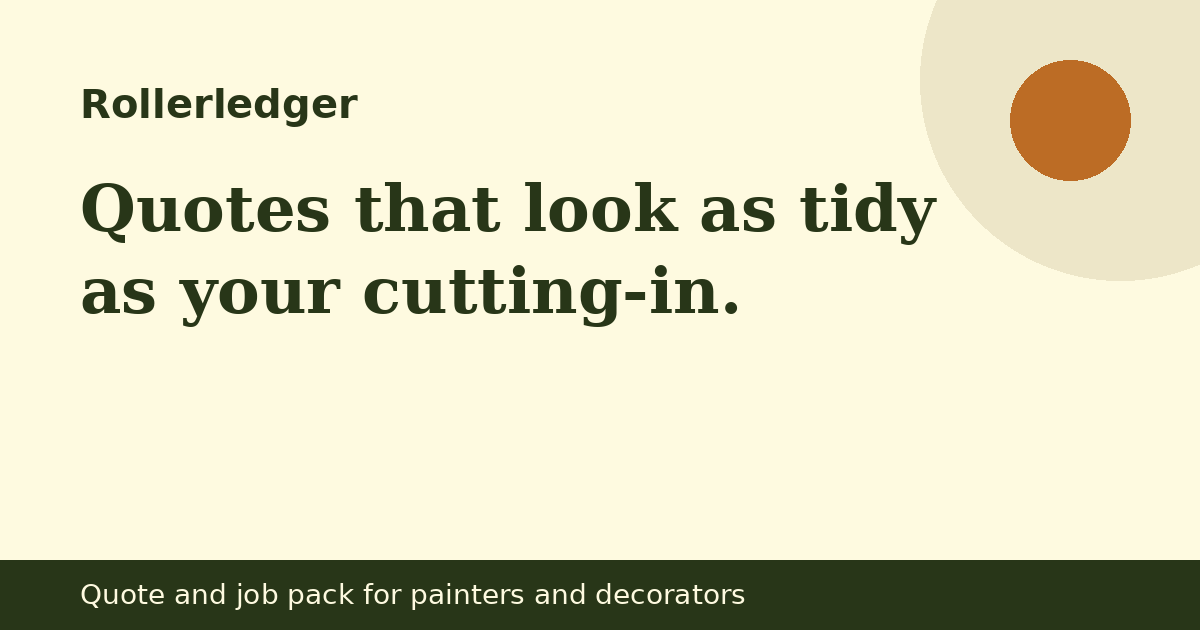
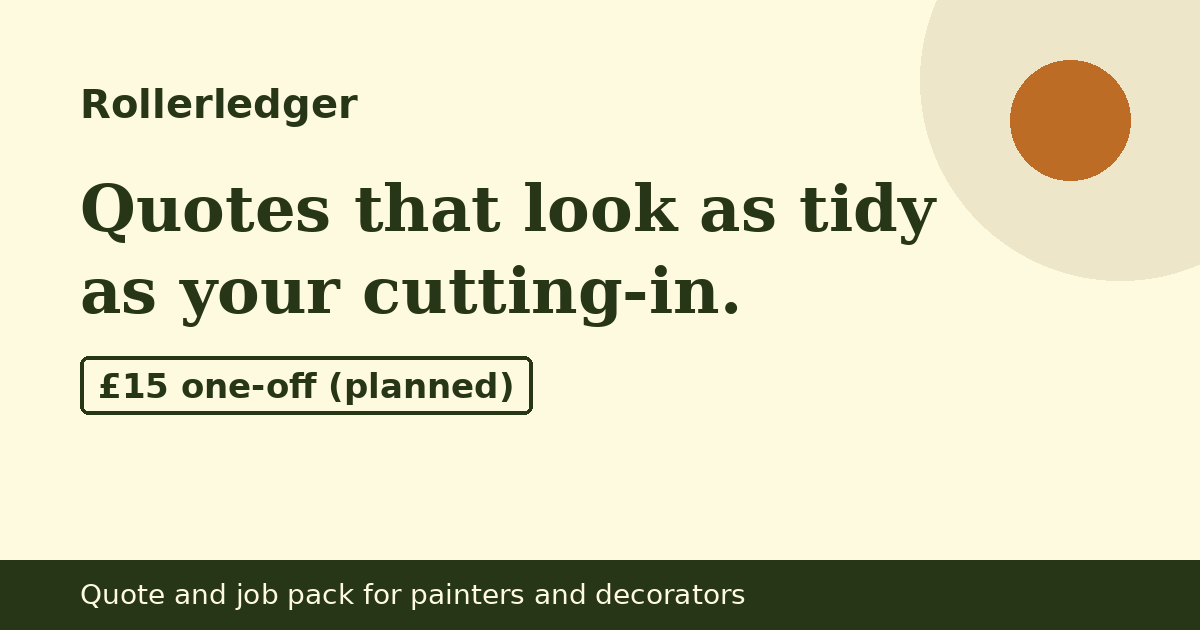
Publish site 2026-10-21 08:29 BST

Changed region(s): [[0.0617, 0.5429, 0.4625, 0.6635]]

diff --git a/index.html b/index.html
@@ -3,7 +3,7 @@
 <head>
 <meta charset="utf-8">
 <meta name="viewport" content="width=device-width, initial-scale=1">
-<meta http-equiv="Content-Security-Policy" content="default-src 'self'; img-src 'self' data: https://localreplyloop.goatcounter.com; style-src 'self'; script-src 'self'; font-src 'self'; connect-src 'self' https://formsubmit.co; form-action 'self'; base-uri 'self'; object-src 'none'">
+<meta http-equiv="Content-Security-Policy" content="default-src 'self'; img-src 'self' data: https://localreplyloop.goatcounter.com; style-src 'self'; script-src 'self'; font-src 'self'; connect-src 'self'; form-action 'self'; base-uri 'self'; object-src 'none'">
 <meta name="referrer" content="strict-origin-when-cross-origin">
 <title>Rollerledger: Quotes that look as tidy as your cutting-in</title>
 <meta name="description" content="A quote template, room measurement sheet, materials list and job sign-off form for decorators.">
@@ -21,21 +21,14 @@
 </head>
 <body>
 <a class="skip" href="#main">Skip to content</a>
-<header><div class="wrap top"><a class="brand" href="./"><svg viewBox="0 0 64 64" aria-hidden="true" width="34" height="34"><rect width="64" height="64" rx="16" fill="#283618"/><text x="32" y="43" text-anchor="middle" font-family="Georgia, serif" font-weight="700" font-size="30" fill="#FEFAE0">R</text><circle cx="50" cy="50" r="6" fill="#BC6C25"/></svg>Rollerledger</a><nav aria-label="Primary"><a href="#how">How it works</a><a href="#faq">Questions</a><a href="#contact">Contact</a></nav></div></header><section class="hero"><div class="wrap"><div><span class="draft">Draft: not yet available. Enquiries welcome.</span><br><span class="eyebrow">Digital product · draft · Quote and job pack for painters and decorators</span><h1>Quotes that look as tidy as your cutting-in.</h1><p class="lede">Rollerledger gives decorators a quote template, a room-by-room measuring sheet that works out wall and ceiling areas, a materials list and a sign-off form for the end of the job.</p><div class="ctas"><a class="btn" href="#contact" data-cta="hero">Tell me when it&#x27;s ready</a><a class="btn ghost" href="#faq" data-cta="hero-secondary">Questions</a></div></div><div class="art"><svg viewBox="0 0 400 400" role="img" aria-label="Decorative pattern" class="motif" preserveAspectRatio="xMidYMid slice"><rect x="0" y="40" width="30" height="200" rx="15" fill="#EDE6C8"/><rect x="46" y="40" width="30" height="200" rx="15" fill="#283618"/><rect x="92" y="40" width="30" height="260" rx="15" fill="#BC6C25"/><rect x="138" y="40" width="30" height="280" rx="15" fill="#283618"/><rect x="184" y="40" width="30" height="300" rx="15" fill="#EDE6C8"/><rect x="230" y="100" width="30" height="240" rx="15" fill="#283618"/><rect x="276" y="70" width="30" height="280" rx="15" fill="#BC6C25"/><rect x="322" y="40" width="30" height="240" rx="15" fill="#283618"/><rect x="368" y="40" width="30" height="220" rx="15" fill="#EDE6C8"/></svg></div></div></section>
+<header><div class="wrap top"><a class="brand" href="./"><svg viewBox="0 0 64 64" aria-hidden="true" width="34" height="34"><rect width="64" height="64" rx="16" fill="#283618"/><text x="32" y="43" text-anchor="middle" font-family="Georgia, serif" font-weight="700" font-size="30" fill="#FEFAE0">R</text><circle cx="50" cy="50" r="6" fill="#BC6C25"/></svg>Rollerledger</a><nav aria-label="Primary"><a href="#how">How it works</a><a href="#faq">Questions</a><a href="#contact">Contact</a></nav></div></header>
 <main id="main">
+<section class="hero"><div class="wrap"><div><span class="draft">Draft: not yet available. Enquiries welcome.</span><br><span class="eyebrow">Digital product · draft · Quote and job pack for painters and decorators</span><h1>Quotes that look as tidy as your cutting-in.</h1><p class="lede">Rollerledger gives decorators a quote template, a room-by-room measuring sheet that works out wall and ceiling areas, a materials list and a sign-off form for the end of the job.</p><div class="ctas"><a class="btn" href="#contact" data-cta="hero">Tell me when it&#x27;s ready</a><a class="btn ghost" href="#faq" data-cta="hero-secondary">Questions</a></div></div><figure class="art"><svg viewBox="0 0 400 400" aria-hidden="true" focusable="false" class="motif"><rect x="40" y="60" width="190" height="290" rx="14" fill="#283618"/><rect x="48" y="68" width="174" height="274" rx="8" fill="#FEFAE0"/><rect x="64" y="100" width="140" height="8" rx="4" fill="#EDE6C8"/><rect x="64" y="132" width="110" height="8" rx="4" fill="#EDE6C8"/><rect x="64" y="164" width="80" height="8" rx="4" fill="#EDE6C8"/><rect x="64" y="196" width="140" height="8" rx="4" fill="#EDE6C8"/><rect x="64" y="228" width="110" height="8" rx="4" fill="#EDE6C8"/><rect x="64" y="260" width="80" height="8" rx="4" fill="#EDE6C8"/><rect x="64" y="292" width="140" height="8" rx="4" fill="#EDE6C8"/><rect x="250" y="70" width="130" height="60" rx="30" fill="#BC6C25"/><rect x="240" y="86" width="20" height="28" rx="6" fill="#283618"/><path d="M250 100 h-14 v80 h70 v40" fill="none" stroke="#283618" stroke-width="10" stroke-linecap="round" stroke-linejoin="round"/><rect x="296" y="220" width="20" height="140" rx="8" fill="#283618"/></svg><figcaption class="fine">Illustrative</figcaption></figure></div></section>
 <section class="tint" id="how"><div class="wrap"><span class="eyebrow">How it works</span><h2>A quote template, room measurement sheet, materials list and job sign-off form for decorators.</h2><div class="steps"><div class="step"><h3>Measure the room</h3><p>Enter dimensions; wall and ceiling areas are worked out.</p></div><div class="step"><h3>Build the quote</h3><p>Labour, materials and prep listed clearly.</p></div><div class="step"><h3>Sign off</h3><p>Customer signs the finished job before final payment.</p></div></div></div></section>
 <section><div class="wrap"><span class="eyebrow">Who it is for</span><h2>For sole-trader painters and decorators.</h2><div class="points"><div class="point"><h3>Areas calculated</h3><p>Walls, ceilings and woodwork from room sizes.</p></div><div class="point"><h3>Clear scope</h3><p>Prep, coats and exclusions written down.</p></div><div class="point"><h3>Sign-off form</h3><p>Fewer arguments about what was agreed.</p></div></div></div></section>
-<section class="tint" id="price"><div class="wrap"><span class="eyebrow">Planned price</span><div class="pricebox"><p class="price">£15 one-off (planned)</p><p>This product is a draft and is not on sale yet. Nothing can be bought on this website. Register interest and we&#x27;ll email you when it&#x27;s ready.</p></div></div></section>
+<section class="tint" id="price"><div class="wrap"><span class="eyebrow">Planned price</span><div class="pricebox"><p class="price">£15 one-off (planned)</p><p>This product is a draft and is not on sale yet. Nothing can be bought on this website. You can register interest; we can’t promise a reply or a date yet.</p></div></div></section>
 <section id="faq"><div class="wrap"><span class="eyebrow">Questions</span><h2>Common questions</h2><details><summary>Is it on sale now?</summary><p>Not yet. Rollerledger is a draft product. Ask to hear when it&#x27;s ready.</p></details><details><summary>Which software does it need?</summary><p>Google Sheets, Excel or Numbers.</p></details><details><summary>Can I add my logo?</summary><p>Yes, there&#x27;s a space for it.</p></details><p class="fine" style="margin-top:18px">Rollerledger is a template pack. It is not legal or tax advice.</p></div></section>
-<section class="tint" id="contact"><div class="wrap contact-grid"><div><span class="eyebrow">Contact</span><h2>Register interest</h2><p>Rollerledger is new and run by one person. Every message is read and answered by email, usually within two working days.</p><p>Email: <a href="mailto:localreply+rollerledger@agentmail.to">localreply+rollerledger@agentmail.to</a></p></div><form class="form" data-contact data-formsubmit="localreply+rollerledger@agentmail.to" data-email="localreply+rollerledger@agentmail.to" data-subject="Rollerledger enquiry" novalidate>
-<div><label for="f-name">Your name</label><input id="f-name" name="name" autocomplete="name" required></div>
-<div><label for="f-email">Email</label><input id="f-email" name="email" type="email" autocomplete="email" required></div>
-<div><label for="f-plan">About</label><select id="f-plan" name="plan"><option value="Tell me when it&#x27;s ready">Tell me when it&#x27;s ready</option><option value="I have a question">I have a question</option></select></div>
-<div><label for="f-message">Message</label><textarea id="f-message" name="message"></textarea></div>
-<p class="hint">Your message goes to our inbox through FormSubmit (formsubmit.co), our form-delivery provider. If that fails, your own email app opens instead. See our <a href="privacy.html">privacy notice</a>.</p>
-<button class="btn" type="submit">Tell me when it&#x27;s ready</button>
-<p class="form-status" role="status" aria-live="polite"></p>
-</form></div></section>
+<section class="tint" id="contact"><div class="wrap contact-grid"><div><span class="eyebrow">Contact</span><h2>Register interest</h2><p>Rollerledger is new and run by one person. Messages go to our inbox. We can’t promise a reply or a timeframe yet.</p><p>Email: <a href="mailto:localreply+rollerledger@agentmail.to">localreply+rollerledger@agentmail.to</a></p></div><div class="form contact-mail"><p><a class="btn" href="mailto:localreply+rollerledger@agentmail.to?subject=%5BRollerledger%5D%20Enquiry" data-cta="enquire">Email Rollerledger</a></p><p class="hint">This opens your own email app. Nothing is sent through this website. See our <a href="privacy.html">privacy notice</a>.</p></div></div></section>
 </main><footer><div class="wrap"><p>Operated by a UK sole trader trading as Rollerledger. Contact: localreply+rollerledger@agentmail.to. Postal address available on written request.</p>
 <p><a href="privacy.html">Privacy</a><a href="terms.html">Terms</a><a href="./#contact">Contact</a></p>
 <p class="fine">Rollerledger is a template pack. It is not legal or tax advice.</p></div></footer>

diff --git a/assets/site.css b/assets/site.css
@@ -1,7 +1,7 @@
 @font-face{font-family:'IBM Plex Mono';font-weight:500;font-style:normal;font-display:swap;src:url(fonts/ibm-plex-mono-latin-500-normal.woff2) format('woff2')}
 @font-face{font-family:'IBM Plex Sans';font-weight:400;font-style:normal;font-display:swap;src:url(fonts/ibm-plex-sans-latin-400-normal.woff2) format('woff2')}
 @font-face{font-family:'IBM Plex Sans';font-weight:600;font-style:normal;font-display:swap;src:url(fonts/ibm-plex-sans-latin-600-normal.woff2) format('woff2')}
-:root{--ink:#283618;--paper:#FEFAE0;--acc:#BC6C25;--acc-text:#A05C1F;--on-acc:#111111;--soft:#EDE6C8;--on-ink:#FEFAE0;--r:4px;--br:4px;--head:'IBM Plex Mono', ui-monospace, monospace;--body:'IBM Plex Sans', system-ui, sans-serif}
+:root{--ink:#283618;--paper:#FEFAE0;--acc:#BC6C25;--acc-text:#91541D;--on-acc:#111111;--acc-btn:#BC6C25;--soft:#EDE6C8;--on-ink:#FEFAE0;--r:4px;--br:4px;--head:'IBM Plex Mono', ui-monospace, monospace;--body:'IBM Plex Sans', system-ui, sans-serif}
 *,*::before,*::after{box-sizing:border-box}html{scroll-behavior:smooth}@media (prefers-reduced-motion:reduce){html{scroll-behavior:auto}*{transition:none!important}}
 body{margin:0;font-family:var(--body);color:var(--ink);background:var(--paper);line-height:1.6;font-size:17px;-webkit-font-smoothing:antialiased}
 h1,h2,h3{font-family:var(--head);line-height:1.15;margin:0 0 .5em;letter-spacing:-.01em}h1{font-size:clamp(2.1rem,5vw,3.6rem)}h2{font-size:clamp(1.5rem,3vw,2.2rem)}h3{font-size:1.15rem}
@@ -10,11 +10,11 @@ p{margin:0 0 1em}a{color:var(--ink);text-decoration-color:var(--acc);text-underl
 :focus-visible{outline:3px solid var(--acc);outline-offset:2px}
 .top{display:flex;align-items:center;justify-content:space-between;padding:18px 0;gap:16px}.brand{display:flex;align-items:center;gap:10px;font-family:var(--head);font-weight:700;font-size:1.25rem;text-decoration:none}
 .top nav a{margin-left:18px;font-size:.95rem;text-decoration:none}.top nav a:hover{text-decoration:underline}
-.btn{display:inline-block;background:var(--acc);color:var(--on-acc);padding:13px 22px;border-radius:var(--br);font-weight:600;text-decoration:none;border:2px solid var(--acc);cursor:pointer;font:inherit;font-weight:600}
-.btn:hover{filter:brightness(.94)}.btn.ghost{background:transparent;color:var(--ink);border-color:var(--ink)}
+.btn{display:inline-block;background:var(--acc-btn);color:var(--on-acc);padding:13px 22px;border-radius:var(--br);font-weight:600;text-decoration:none;border:2px solid var(--acc-btn);cursor:pointer;font:inherit;font-weight:600}
+.btn:hover{filter:none;box-shadow:inset 0 0 0 2px currentColor}.btn.ghost{background:transparent;color:var(--ink);border-color:var(--ink)}
 .eyebrow{display:inline-block;font-size:.8rem;letter-spacing:.12em;text-transform:uppercase;font-weight:600;color:var(--acc-text);margin-bottom:12px}
 .hero{padding:48px 0 64px}.hero .lede{font-size:1.15rem;max-width:40em}.ctas{display:flex;gap:12px;flex-wrap:wrap;margin-top:22px}
-.motif{width:100%;height:auto;max-width:420px;display:block}
+.motif{width:100%;height:auto;max-width:420px;display:block}.art{margin:0}
 .draft{display:inline-block;background:var(--soft);border:1px dashed var(--ink);padding:3px 10px;border-radius:999px;font-size:.82rem;font-weight:600;margin-bottom:14px}
 section{padding:56px 0}.tint{background:var(--soft)}
 .steps{display:grid;grid-template-columns:repeat(auto-fit,minmax(220px,1fr));gap:22px;counter-reset:s}
@@ -25,11 +25,11 @@ section{padding:56px 0}.tint{background:var(--soft)}
 details{border-bottom:1px solid color-mix(in srgb,var(--ink) 18%,transparent);padding:14px 0}summary{cursor:pointer;font-weight:600}details p{margin-top:10px}
 .form{display:grid;gap:14px;max-width:620px}.form label{font-weight:600;font-size:.95rem;display:block;margin-bottom:4px}
 .form input,.form textarea,.form select{width:100%;padding:12px;border:1.5px solid color-mix(in srgb,var(--ink) 40%,transparent);border-radius:calc(var(--r)/2);font:inherit;background:#fff;color:#111}
-.form textarea{min-height:120px}.hint,.fine{font-size:.88rem;opacity:.85}.form-status{font-weight:600}
-.contact-grid{display:grid;grid-template-columns:1fr 1.2fr;gap:40px}@media(max-width:800px){.contact-grid{grid-template-columns:1fr}.top nav{display:none}}
+.form textarea{min-height:120px}.hint,.fine{font-size:.88rem}.form-status{font-weight:600}
+.contact-grid{display:grid;grid-template-columns:1fr 1.2fr;gap:40px}@media(max-width:800px){.contact-grid{grid-template-columns:1fr}.top nav a:not([href="#contact"]){display:none}.top nav a{margin-left:0;padding:10px 0;font-weight:600}}
 footer{padding:36px 0 48px;font-size:.9rem;border-top:1px solid color-mix(in srgb,var(--ink) 15%,transparent)}footer a{margin-right:14px}
 .tool{background:var(--paper);border:2px solid var(--ink);border-radius:var(--r);padding:26px;max-width:640px}.tool .row{display:grid;grid-template-columns:1fr 140px;gap:12px;align-items:center;margin-bottom:10px}
 .tool input[type=number]{padding:10px;border:1.5px solid var(--ink);border-radius:8px;font:inherit;width:100%}.result{margin-top:16px;padding:16px;background:var(--soft);border-radius:calc(var(--r)/2);min-height:3em}
 .check h3{margin-top:18px}.check label{display:flex;gap:10px;align-items:flex-start;padding:6px 0}.check input{width:20px;height:20px;accent-color:var(--acc)}
 .legal{max-width:760px}.legal h2{font-size:1.3rem;margin-top:1.6em}
-.hero .wrap{display:grid;grid-template-columns:1.25fr .85fr;gap:48px;align-items:center}@media(max-width:800px){.hero .wrap{grid-template-columns:1fr}.hero .art{max-width:280px}}
+.hero .wrap{display:grid;grid-template-columns:1.25fr .85fr;gap:48px;align-items:center}@media(max-width:800px){.hero .wrap{grid-template-columns:1fr}.hero .art{max-width:180px;margin-top:-8px}}

diff --git a/privacy.html b/privacy.html
@@ -3,7 +3,7 @@
 <head>
 <meta charset="utf-8">
 <meta name="viewport" content="width=device-width, initial-scale=1">
-<meta http-equiv="Content-Security-Policy" content="default-src 'self'; img-src 'self' data: https://localreplyloop.goatcounter.com; style-src 'self'; script-src 'self'; font-src 'self'; connect-src 'self' https://formsubmit.co; form-action 'self'; base-uri 'self'; object-src 'none'">
+<meta http-equiv="Content-Security-Policy" content="default-src 'self'; img-src 'self' data: https://localreplyloop.goatcounter.com; style-src 'self'; script-src 'self'; font-src 'self'; connect-src 'self'; form-action 'self'; base-uri 'self'; object-src 'none'">
 <meta name="referrer" content="strict-origin-when-cross-origin">
 <title>Privacy notice | Rollerledger</title>
 <meta name="description" content="Privacy notice for Rollerledger.">
@@ -21,13 +21,13 @@
 </head>
 <body>
 <a class="skip" href="#main">Skip to content</a>
-<header><div class="wrap top"><a class="brand" href="./"><svg viewBox="0 0 64 64" aria-hidden="true" width="34" height="34"><rect width="64" height="64" rx="16" fill="#283618"/><text x="32" y="43" text-anchor="middle" font-family="Georgia, serif" font-weight="700" font-size="30" fill="#FEFAE0">R</text><circle cx="50" cy="50" r="6" fill="#BC6C25"/></svg>Rollerledger</a><nav aria-label="Primary"><a href="#how">How it works</a><a href="#faq">Questions</a><a href="#contact">Contact</a></nav></div></header><main id="main"><section><div class="wrap legal"><h1>Privacy notice</h1><p class="fine">Last updated 19 October 2026</p>
+<header><div class="wrap top"><a class="brand" href="./"><svg viewBox="0 0 64 64" aria-hidden="true" width="34" height="34"><rect width="64" height="64" rx="16" fill="#283618"/><text x="32" y="43" text-anchor="middle" font-family="Georgia, serif" font-weight="700" font-size="30" fill="#FEFAE0">R</text><circle cx="50" cy="50" r="6" fill="#BC6C25"/></svg>Rollerledger</a><nav aria-label="Primary"><a href="#how">How it works</a><a href="#faq">Questions</a><a href="#contact">Contact</a></nav></div></header><main id="main"><section><div class="wrap legal"><h1>Privacy notice</h1><p class="fine">Last updated 20 October 2026</p>
 <p><span>Operated by a UK sole trader trading as Rollerledger. Contact: localreply+rollerledger@agentmail.to. Postal address available on written request.</span> We are the controller for the personal data described here. For anything in this notice, email <a href="mailto:localreply+rollerledger@agentmail.to">localreply+rollerledger@agentmail.to</a> with “Rollerledger” in the subject line.</p>
-<h2>What we collect</h2><p>If you use the form or email us, we receive your name, email address, anything you write in your message and, if you give it, your postcode or town. We use it only to reply to you and, if you ask for it, to deal with your enquiry.</p>
+<h2>What we collect</h2><p>If you email us, we receive your name, email address, anything you write in your message and, if you give it, your postcode or town. We use it only to reply to you and, if you ask for it, to deal with your enquiry.</p>
 <h2>Lawful basis</h2><p>Replying to an enquiry you send us is in our legitimate interests, or steps taken at your request before any agreement (UK GDPR Article 6(1)(f) and 6(1)(b)).</p>
-<h2>Who processes it for us</h2><p>FormSubmit (formsubmit.co) delivers form messages to our inbox. AgentMail (agentmail.to) hosts the inbox. GitHub Pages hosts this website and may log technical data such as IP addresses for security. Some of these providers process data outside the UK under their own safeguards.</p>
+<h2>Who processes it for us</h2><p>AgentMail (agentmail.to) hosts our inbox. GitHub Pages hosts this website and may log technical data such as IP addresses for security. Some of these providers process data outside the UK under their own safeguards.</p>
 <h2>Cookies and analytics</h2><p>We set no cookies. We count page views with GoatCounter, which records the page, referrer and screen size but no cookies and no personal profile. It does not run if your browser sends Do Not Track or Global Privacy Control.</p>
-<h2>How long we keep it</h2><p>We keep enquiry emails for up to 12 months after our last contact, unless you become a customer, in which case we keep records as the law requires.</p>
+<h2>How long we keep it</h2><p>We delete enquiry and order data 30 days after our last contact or after delivery. We keep only the basic order record that tax law requires.</p>
 <h2>Your rights</h2><p>You can ask for a copy of your data, ask us to correct or delete it, or object to how we use it, by emailing <a href="mailto:localreply+rollerledger@agentmail.to">localreply+rollerledger@agentmail.to</a>. You can complain to the Information Commissioner's Office (ico.org.uk).</p></div></section></main><footer><div class="wrap"><p>Operated by a UK sole trader trading as Rollerledger. Contact: localreply+rollerledger@agentmail.to. Postal address available on written request.</p>
 <p><a href="privacy.html">Privacy</a><a href="terms.html">Terms</a><a href="./#contact">Contact</a></p>
 <p class="fine">Rollerledger is a template pack. It is not legal or tax advice.</p></div></footer>

diff --git a/_shared/kit.js b/_shared/kit.js
@@ -69,24 +69,8 @@
     form.addEventListener("submit", function (e) {
       e.preventDefault();
       if (!form.reportValidity()) return;
-      // 2026-10-14: if data-formsubmit is set, deliver via FormSubmit.co straight to the brand inbox; mailto stays as fallback.
-      var fsTok = form.getAttribute("data-formsubmit");
-      if (fsTok && !form.__fsFallback && window.fetch) {
-        var fd = new FormData(form), payload = {}, st = form.querySelector("[role=status]");
-        fd.forEach(function (v, k) { if (k !== "consent") payload[k] = String(v); });
-        payload._subject = (form.getAttribute("data-subject") || "Enquiry") + (payload.business ? " — " + payload.business : "");
-        if (payload.email) payload._replyto = payload.email;
-        payload._captcha = "false"; payload._template = "table";
-        fetch("https://formsubmit.co/ajax/" + fsTok, { method: "POST", headers: { "Content-Type": "application/json", "Accept": "application/json" }, body: JSON.stringify(payload) })
-          .then(function (r) { return r.json(); })
-          .then(function (j) {
-            if (String(j.success) !== "true") throw new Error("fs");
-            if (st) { st.textContent = "Thanks" + (payload.name ? ", " + payload.name.trim().split(" ")[0] : "") + " — your message has been sent. We reply by email."; st.classList.add("is-visible"); }
-            track("contact_sent", { plan: payload.plan || null }); form.reset();
-          })
-          .catch(function () { form.__fsFallback = true; if (st) { st.textContent = "Sending didn't work — opening your email app instead."; st.classList.add("is-visible"); } form.requestSubmit ? form.requestSubmit() : form.dispatchEvent(new Event("submit", { cancelable: true })); });
-        return;
-      }
+      // The form only composes an email
+      // in the visitor's own mail app; nothing is sent through any third-party form processor.
       var to = form.getAttribute("data-email") || cfg.contactEmail;
       var data = new FormData(form);
       var name = (data.get("name") || "").toString().trim();

diff --git a/_shared/kit.css b/_shared/kit.css
@@ -73,6 +73,7 @@ p { margin: 0; }
 .mobile-nav.is-open { display: block; }
 .mobile-nav a { display: flex; align-items: center; min-height: 52px; padding: 0 1.25rem; color: var(--text); text-decoration: none; font-weight: 500; border-bottom: 1px solid var(--line); }
 .mobile-nav .btn { margin: 1rem 1.25rem 1.25rem; display: flex; }
+.mobile-nav .btn--primary, .mobile-nav .btn--primary:hover { color: #fff; }
 @media (min-width: 60rem) {
   .nav { display: flex; }
   .site-header .header-cta { display: inline-flex; margin-left: .75rem; }
@@ -329,3 +330,8 @@ html[data-paused="true"] [data-cta="checkout"] { pointer-events: none; opacity: 
 @media (min-width: 60rem) { .pricing.pricing--single { grid-template-columns: 1fr; } }
 .tier-more { max-width: 64rem; margin: 1.25rem auto 0; text-align: center; color: var(--muted); font-size: .9375rem; line-height: 1.6; }
 .tier-more a { font-weight: 600; white-space: nowrap; }
+
+.site-header .header-link { display: inline-flex; color: var(--ink); font-weight: 600; text-decoration: underline; text-underline-offset: .2em; min-height: 44px; align-items: center; padding: 0 .25rem; }
+@media (max-width: 59.99rem) { .site-header .header-link { display: none; } }
+.btn-row .text-link { display: inline-flex; align-items: center; min-height: 48px; padding: 0 .25rem; color: var(--ink); font-weight: 600; text-decoration: underline; text-underline-offset: .2em; }
+.btn-row .text-link:hover, .site-header .header-link:hover { color: var(--accent-strong); }

diff --git a/404.html b/404.html
@@ -3,7 +3,7 @@
 <head>
 <meta charset="utf-8">
 <meta name="viewport" content="width=device-width, initial-scale=1">
-<meta http-equiv="Content-Security-Policy" content="default-src 'self'; img-src 'self' data: https://localreplyloop.goatcounter.com; style-src 'self'; script-src 'self'; font-src 'self'; connect-src 'self' https://formsubmit.co; form-action 'self'; base-uri 'self'; object-src 'none'">
+<meta http-equiv="Content-Security-Policy" content="default-src 'self'; img-src 'self' data: https://localreplyloop.goatcounter.com; style-src 'self'; script-src 'self'; font-src 'self'; connect-src 'self'; form-action 'self'; base-uri 'self'; object-src 'none'">
 <meta name="referrer" content="strict-origin-when-cross-origin">
 <title>Page not found | Rollerledger</title>
 <meta name="description" content="Page not found for Rollerledger.">

diff --git a/terms.html b/terms.html
@@ -3,7 +3,7 @@
 <head>
 <meta charset="utf-8">
 <meta name="viewport" content="width=device-width, initial-scale=1">
-<meta http-equiv="Content-Security-Policy" content="default-src 'self'; img-src 'self' data: https://localreplyloop.goatcounter.com; style-src 'self'; script-src 'self'; font-src 'self'; connect-src 'self' https://formsubmit.co; form-action 'self'; base-uri 'self'; object-src 'none'">
+<meta http-equiv="Content-Security-Policy" content="default-src 'self'; img-src 'self' data: https://localreplyloop.goatcounter.com; style-src 'self'; script-src 'self'; font-src 'self'; connect-src 'self'; form-action 'self'; base-uri 'self'; object-src 'none'">
 <meta name="referrer" content="strict-origin-when-cross-origin">
 <title>Terms of use | Rollerledger</title>
 <meta name="description" content="Terms of use for Rollerledger.">
